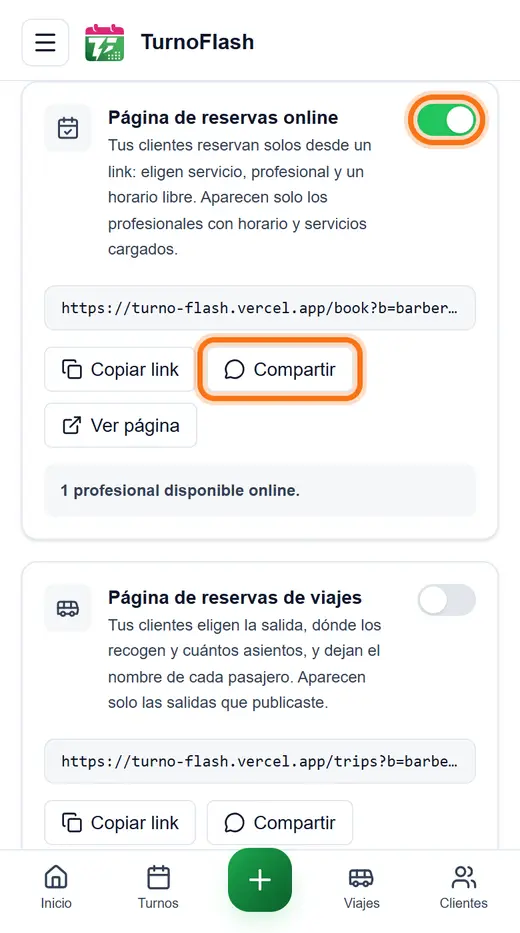
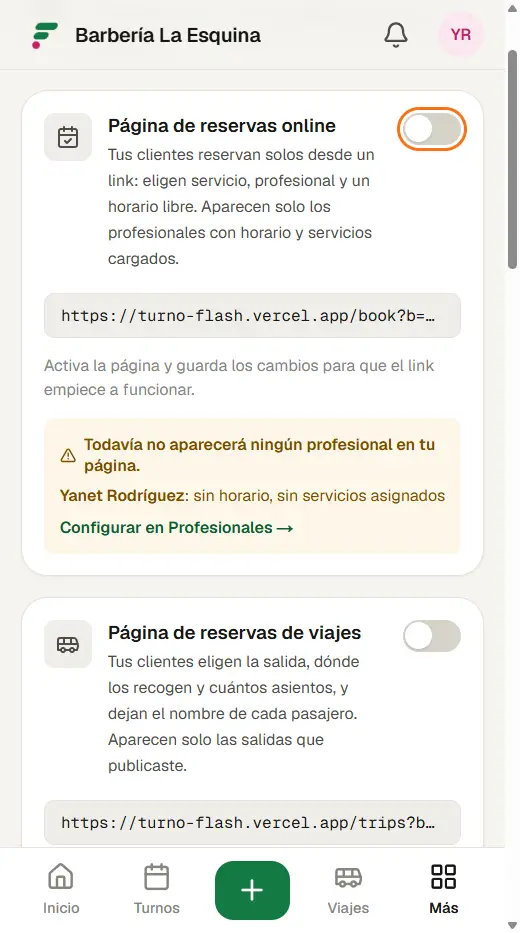
docs(help): first-steps guide photos and manual for the v2 redesign
The eight guide photos are retaken on the new screens, and the manual uses the new status names, actions and navigation. Also: the appointment number leaves the row on phones, buttons never wrap, and trips keep their Requiere aprobacion tag.

diff --git a/docs/user-manual/turno-flash-user-manual.html b/docs/user-manual/turno-flash-user-manual.html
@@ -489,7 +489,7 @@
   <p>Este es el orden que conviene seguir la primera vez. Cada paso depende del anterior: por ejemplo, un profesional sin servicios asignados no aparece en la reserva online.</p>
   <div class="callout tip">
     <span class="tag">Te guiamos</span>
-    <p>En la pantalla de inicio, mientras no termines, verás la tarjeta <span class="ui">Pon en marcha tu negocio</span> con estos pasos, una foto de cada pantalla y un botón que te lleva directo a ella. Cada paso se marca solo cuando lo haces. Si no la quieres ver, toca <span class="ui">Ocultar</span>.</p>
+    <p>En la pantalla de inicio, mientras no termines, verás el recuadro <span class="ui">Pon en marcha tu negocio</span> con estos pasos, una foto de cada pantalla y un botón que te lleva directo a ella. Cada paso se marca solo cuando lo haces. Si no la quieres ver, toca <span class="ui">Ocultar</span>.</p>
   </div>
   <ol class="steps">
     <li><strong>Crea tu cuenta.</strong> En la pantalla de registro completa tu nombre, el nombre del negocio, tu email y una contraseña de al menos 6 caracteres. En <em>¿Qué hace tu negocio?</em> elige <span class="ui">Doy turnos o citas</span> (o <span class="ui">Las dos cosas</span> si también vendes asientos de viajes). En <em>¿Cuántos atienden?</em> elige si trabajas por tu cuenta o con equipo: eso define tu plan. Escribe <strong>tu WhatsApp</strong> (ahí te avisamos antes de que venza tu acceso), el WhatsApp del negocio y tu zona horaria. Empiezas con <strong>15 días de prueba gratis</strong> y ese día no pagas nada.</li>
@@ -505,11 +505,11 @@
   <h2 id="td-inicio">La pantalla de inicio</h2>
   <p>Al entrar ves un saludo con el nombre del negocio y la fecha, y debajo:</p>
   <ul>
-    <li><strong>Hoy:</strong> cuántos turnos hay en el día, separados en Confirmados, Pendientes, En curso y Completados.</li>
-    <li><strong>Atajos</strong> a las secciones que más se usan.</li>
-    <li><strong>Próximos:</strong> los siguientes tres turnos del día que todavía no empezaron. <span class="ui">Ver todos →</span> te lleva a la agenda completa.</li>
+    <li><strong>Hoy:</strong> cuántos turnos hay en el día, con una barra de colores y cuántos van Terminados, En curso, Llegaron, Confirmados y Pendientes.</li>
+    <li><strong>Ahora:</strong> el turno que se está atendiendo o el cliente que ya llegó, con el botón del siguiente paso (<span class="ui">Empezar</span> o <span class="ui">Terminar</span>).</li>
+    <li><strong>Próximos:</strong> los siguientes tres turnos del día que todavía no empezaron. <span class="ui">Ver agenda</span> te lleva a la agenda completa.</li>
   </ul>
-  <p>En la computadora el menú está siempre a la izquierda; ahí también encuentras <span class="ui">Ayuda</span>, que abre esta guía, y puedes cambiar a <span class="ui">Tema oscuro</span> o <span class="ui">Cerrar sesión</span>. En el teléfono tienes una barra inferior con Inicio, Turnos, Clientes y Avisos, y un botón <span class="ui">+</span> en el centro que abre la agenda para crear un turno. Arriba a la derecha, el botón de las flechas (<span class="ui">Actualizar</span>) vuelve a traer los datos sin salir de la pantalla.</p>
+  <p>En la computadora el menú está siempre a la izquierda; ahí también encuentras <span class="ui">Ayuda</span>, que abre esta guía. Abajo, junto a tu nombre, el menú <span class="ui">⋮</span> cambia a <span class="ui">Tema oscuro</span> y tiene <span class="ui">Cerrar sesión</span>. En el teléfono tienes una barra inferior con Inicio, Turnos, Clientes y <span class="ui">Más</span>, y un botón <span class="ui">+</span> en el centro que abre la agenda para crear un turno. <span class="ui">Más</span> abre el resto de las secciones (Servicios, Profesionales, Recordatorios, Reportes, Ajustes, Suscripción…), el tema claro u oscuro, <span class="ui">Actualizar datos</span>, que vuelve a traer la información sin salir de la pantalla, y <span class="ui">Cerrar sesión</span>. Arriba, la campana te lleva a Recordatorios y el círculo con tus iniciales, a tu cuenta.</p>
 
   <h2 id="td-turnos">La agenda de turnos</h2>
   <p>Todo pasa en <span class="path">Turnos</span>. Arriba eliges cómo ver la agenda:</p>
@@ -525,14 +525,14 @@
   </div>
 
   <h3>Buscar y filtrar</h3>
-  <p>En la vista Lista, el buscador encuentra turnos por nombre o teléfono del cliente, por servicio o por profesional. Debajo, las pastillas filtran por estado: Todos, Pendientes, Confirmados, Recordatorio, Cliente OK, Check-in, En curso, Completados, Cancelados y No vino. El buscador y los filtros revisan todos los turnos del período, no solo los que ya están en pantalla. Si hay muchos turnos, al final aparece <span class="ui">Cargar más</span>.</p>
+  <p>En la vista Lista, el buscador encuentra turnos por nombre o teléfono del cliente, por servicio o por profesional. Debajo, las pastillas filtran por estado: Todos, Pendientes, Confirmados, Avisados, Confirmaron, Llegaron, En curso, Terminados, Cancelados y No vino. El buscador y los filtros revisan todos los turnos del período, no solo los que ya están en pantalla. Si hay muchos turnos, al final aparece <span class="ui">Cargar más</span>.</p>
 
   <h3>Crear un turno</h3>
   <ol class="steps">
     <li>Pulsa <span class="ui">Nuevo turno</span> (en el teléfono, el botón redondo <span class="ui">+</span>).</li>
     <li>Elige el <strong>cliente</strong> de la lista. Si es nuevo, pulsa <span class="ui">Nuevo</span>, completa nombre, apellido, teléfono y (si quieres) email, y pulsa <span class="ui">Crear y seleccionar</span>.</li>
     <li>Elige <strong>fecha</strong> y <strong>hora</strong> de inicio.</li>
-    <li>Toca el <strong>servicio</strong>. Cada tarjeta muestra la duración y el precio; la hora de fin se calcula sola.</li>
+    <li>Toca el <strong>servicio</strong>. Cada opción muestra la duración y el precio; la hora de fin se calcula sola.</li>
     <li>Opcional: elige el <strong>profesional</strong> o deja <span class="ui">Cualquiera</span>, y agrega una nota.</li>
     <li>Pulsa <span class="ui">Crear turno</span>.</li>
   </ol>
@@ -546,14 +546,14 @@
   </div>
 
   <h3>Atender un turno: avanzar de estado</h3>
-  <p>Cada turno de la lista tiene un botón con el <strong>siguiente paso</strong> (por ejemplo <span class="ui">Hacer check-in</span> cuando llega el cliente y luego <span class="ui">Completar</span>). Tócalo para avanzar sin abrir el turno. Si tocas el turno, se abre su detalle con fecha, hora, servicio, profesional, duración, precio y notas, más estas acciones:</p>
+  <p>Toca un turno de la lista para abrir su detalle, con fecha, hora, servicio, profesional, duración, precio y notas. Ahí está el botón verde con el <strong>siguiente paso</strong>: <span class="ui">Marcar llegada</span> cuando llega el cliente, <span class="ui">Empezar atención</span> cuando lo pasan a atender y <span class="ui">Terminar</span> al final. Debajo tienes estas acciones:</p>
   <ul>
-    <li>El botón principal con el siguiente paso, y <span class="ui">Completar</span> para cerrarlo de una vez.</li>
+    <li><span class="ui">Terminar</span>, para cerrarlo de una vez sin pasar por los pasos intermedios.</li>
     <li><span class="ui">WhatsApp</span>: abre un chat con el cliente. Toca su teléfono para llamarlo.</li>
-    <li><span class="ui">No vino</span>: marca que el cliente no se presentó.</li>
+    <li><span class="ui">⋮</span> › <span class="ui">No vino</span>, arriba junto a la X: marca que el cliente no se presentó.</li>
     <li><span class="ui">Cancelar</span>: cancela el turno. Con WhatsApp conectado, el cliente recibe <em>Tu turno N° … fue cancelado</em>.</li>
   </ul>
-  <p>No hace falta pasar por todos los pasos: puedes saltar de <span class="chip st-confirmed">Confirmado</span> directamente a <span class="chip st-completed">Completado</span>, por ejemplo. Lo que no se puede es volver atrás, ni cambiar un turno completado, cancelado o marcado como no asistió.</p>
+  <p>No hace falta pasar por todos los pasos: puedes saltar de <span class="chip st-confirmed">Confirmado</span> directamente a <span class="chip st-completed">Terminado</span>, por ejemplo. Lo que no se puede es volver atrás, ni cambiar un turno terminado, cancelado o marcado como No vino.</p>
 
   <h3>Mover un turno</h3>
   <p>Si el cliente necesita otro día u otra hora, abre el turno y toca <span class="ui">Mover</span>. Elige la nueva fecha, la hora y, si quieres, otro profesional, y pulsa <span class="ui">Mover turno</span>. La duración se mantiene. Con WhatsApp conectado, el cliente recibe <em>Tu turno cambió de horario</em> y se le pide que confirme de nuevo; también le llegará el recordatorio de la nueva hora.</p>
@@ -564,37 +564,37 @@
       <thead><tr><th>Estado</th><th>Qué significa</th><th>Botón para avanzar</th></tr></thead>
       <tbody>
         <tr><td><span class="chip st-pending">Pendiente</span></td><td class="wrap">Solicitud que el negocio todavía no aprobó.</td><td><span class="ui">Confirmar</span></td></tr>
-        <tr><td><span class="chip st-confirmed">Confirmado</span></td><td class="wrap">El turno está reservado.</td><td><span class="ui">Hacer check-in</span></td></tr>
-        <tr><td><span class="chip st-reminded">Recordatorio enviado</span></td><td class="wrap">Se le mandó el recordatorio al cliente.</td><td><span class="ui">Hacer check-in</span></td></tr>
-        <tr><td><span class="chip st-client_confirmed">Cliente confirmó</span></td><td class="wrap">El cliente respondió OK al WhatsApp.</td><td><span class="ui">Hacer check-in</span></td></tr>
-        <tr><td><span class="chip st-checked_in">Check-in</span></td><td class="wrap">El cliente llegó al local.</td><td><span class="ui">Completar</span></td></tr>
-        <tr><td><span class="chip st-in_progress">En curso</span></td><td class="wrap">Lo están atendiendo.</td><td><span class="ui">Completar</span></td></tr>
-        <tr><td><span class="chip st-completed">Completado</span></td><td class="wrap">Terminado. Cuenta como ingreso en los reportes.</td><td>—</td></tr>
+        <tr><td><span class="chip st-confirmed">Confirmado</span></td><td class="wrap">El turno está reservado.</td><td><span class="ui">Marcar llegada</span></td></tr>
+        <tr><td><span class="chip st-reminded">Avisado</span></td><td class="wrap">Se le mandó el recordatorio al cliente.</td><td><span class="ui">Marcar llegada</span></td></tr>
+        <tr><td><span class="chip st-client_confirmed">Confirmó</span></td><td class="wrap">El cliente respondió OK al WhatsApp.</td><td><span class="ui">Marcar llegada</span></td></tr>
+        <tr><td><span class="chip st-checked_in">Llegó</span></td><td class="wrap">El cliente llegó al local.</td><td><span class="ui">Empezar atención</span></td></tr>
+        <tr><td><span class="chip st-in_progress">En curso</span></td><td class="wrap">Lo están atendiendo.</td><td><span class="ui">Terminar</span></td></tr>
+        <tr><td><span class="chip st-completed">Terminado</span></td><td class="wrap">Terminado. Cuenta como ingreso en los reportes.</td><td>—</td></tr>
         <tr><td><span class="chip st-cancelled">Cancelado</span></td><td class="wrap">Lo canceló el negocio o el cliente.</td><td>—</td></tr>
-        <tr><td><span class="chip st-no_show">No asistió</span></td><td class="wrap">El cliente no se presentó.</td><td>—</td></tr>
+        <tr><td><span class="chip st-no_show">No vino</span></td><td class="wrap">El cliente no se presentó.</td><td>—</td></tr>
       </tbody>
     </table>
   </div>
   <div class="callout warn">
     <span class="tag">Ojo</span>
-    <p>Un turno <span class="chip st-in_progress">En curso</span> ya no se puede marcar como <span class="ui">No vino</span>: solo completarlo o cancelarlo.</p>
+    <p>Un turno <span class="chip st-in_progress">En curso</span> ya no se puede marcar como <span class="ui">No vino</span>: solo terminarlo o cancelarlo.</p>
   </div>
 
   <h3>Exportar la agenda</h3>
   <p>Desde la computadora, el botón <span class="ui">CSV</span> descarga los turnos del rango que estás viendo, con fecha, hora, cliente, teléfono, servicio, profesional, estado, precio, si se pagó, origen y número. Se abre con Excel o Google Sheets.</p>
 
   <h2 id="td-clientes">Clientes</h2>
-  <p>En <span class="path">Clientes</span> tienes la base de clientes activos, con buscador por nombre, teléfono o email. Cada tarjeta muestra el teléfono, el email, las notas y una marca <strong>WA</strong> si tiene WhatsApp cargado.</p>
+  <p>En <span class="path">Clientes</span> tienes la base de clientes activos, con buscador por nombre, teléfono o email. Cada fila muestra el nombre y el teléfono; al tocarla se abre la ficha para ver o corregir el resto.</p>
   <ul>
-    <li><span class="ui">Nuevo cliente</span>: nombre y teléfono son obligatorios; apellido, WhatsApp, email y notas (preferencias, alergias…) son opcionales.</li>
-    <li>Menú <span class="ui">⋮</span> › <span class="ui">Editar</span> para corregir datos.</li>
+    <li><span class="ui">Nuevo</span>: nombre y teléfono son obligatorios; apellido, WhatsApp, email y notas (preferencias, alergias…) son opcionales.</li>
+    <li>Toca la fila, o su menú <span class="ui">⋮</span> › <span class="ui">Editar</span>, para corregir datos.</li>
     <li>Menú <span class="ui">⋮</span> › <span class="ui">Desactivar</span> para sacarlo de la lista sin borrar su historial. Lo encuentras en <span class="ui">Inactivos</span>, donde <span class="ui">⋮</span> › <span class="ui">Reactivar</span> lo devuelve a la lista.</li>
-    <li><span class="ui">CSV</span> descarga todos los clientes activos con sus contactos, cantidad de turnos, faltas y última visita.</li>
+    <li>Arriba, el menú <span class="ui">⋮</span> › <span class="ui">Exportar CSV</span> descarga todos los clientes activos con sus contactos, cantidad de turnos, faltas y última visita.</li>
   </ul>
   <p>Los clientes que reservan por la página online se crean solos. Si alguien vuelve a reservar con el mismo teléfono, se reutiliza su ficha.</p>
 
   <h3>Recuperar clientes</h3>
-  <p>El botón <span class="ui">Recuperar clientes</span> lista a quienes no vienen hace tiempo y les envía por WhatsApp una invitación a volver.</p>
+  <p>En el menú <span class="ui">⋮</span> de arriba, <span class="ui">Recuperar clientes</span> lista a quienes no vienen hace tiempo y les envía por WhatsApp una invitación a volver.</p>
   <ol class="steps">
     <li>Elige cuánto tiempo sin venir: <span class="ui">Sin venir +30 días</span>, <span class="ui">+60 días</span> o <span class="ui">+90 días</span>.</li>
     <li>Marca a los clientes uno por uno o pulsa <span class="ui">Seleccionar todos</span>.</li>
@@ -606,7 +606,7 @@
   </div>
 
   <h2 id="td-servicios">Servicios</h2>
-  <p>En <span class="path">Servicios</span> armas el catálogo de lo que ofreces. Pulsa <span class="ui">Nuevo servicio</span> o <span class="ui">Editar</span> en una tarjeta.</p>
+  <p>En <span class="path">Servicios</span> armas el catálogo de lo que ofreces. Pulsa <span class="ui">Nuevo</span>, o toca un servicio de la lista para editarlo.</p>
   <div class="table-wrap">
     <table>
       <thead><tr><th>Campo</th><th>Para qué sirve</th></tr></thead>
@@ -621,10 +621,10 @@
       </tbody>
     </table>
   </div>
-  <p>El interruptor <span class="ui">Activo</span> / <span class="ui">Pausado</span> de cada tarjeta deja de ofrecer un servicio sin borrarlo. Puedes volver a activarlo cuando quieras.</p>
+  <p>El interruptor a la derecha de cada servicio lo pausa: deja de ofrecerse sin borrarlo, y queda marcado como <span class="ui">Pausado</span>. Puedes volver a activarlo cuando quieras.</p>
 
   <h2 id="td-profesionales">Profesionales</h2>
-  <p>En <span class="path">Profesionales</span> cargas a las personas que atienden. Pulsa <span class="ui">Nuevo profesional</span> y completa nombre y apellido; el resto es opcional: apodo (es el nombre que se muestra), teléfono, email, especialidades separadas por coma, una bio y un color para la agenda. Si esa persona entra a la app con su propia cuenta, elígela en <strong>Cuenta de la app</strong>: así verá la pastilla <span class="ui">Mis turnos</span> en su agenda. Además hay tres casillas:</p>
+  <p>En <span class="path">Profesionales</span> cargas a las personas que atienden. Pulsa <span class="ui">Nuevo</span> y completa nombre y apellido; el resto es opcional: apodo (es el nombre que se muestra), teléfono, email, especialidades separadas por coma, una bio y un color para la agenda. Si esa persona entra a la app con su propia cuenta, elígela en <strong>Cuenta de la app</strong>: así verá la pastilla <span class="ui">Mis turnos</span> en su agenda. Además hay tres casillas:</p>
   <ul>
     <li><strong>Profesional activo:</strong> si está desmarcada, la persona queda pausada.</li>
     <li><strong>Se pueden reservar turnos con esta persona:</strong> desmárcala para quien no atiende clientes (por ejemplo, recepción).</li>
@@ -632,7 +632,7 @@
   </ul>
 
   <h3>Horario y servicios de cada profesional</h3>
-  <p>Desde el menú <span class="ui">⋮</span> › <span class="ui">Horario y servicios</span> de cada tarjeta configuras tres cosas:</p>
+  <p>Desde el menú <span class="ui">⋮</span> › <span class="ui">Horario y servicios</span> de cada profesional configuras tres cosas:</p>
   <ul>
     <li><strong>Servicios que realiza:</strong> toca los que hace esa persona. Solo esos se le ofrecen online.</li>
     <li><strong>Horario semanal:</strong> para cada día marca <em>Trabaja</em> y define desde y hasta. Si corta al mediodía, usa <span class="ui">Agregar tramo</span> para cargar un segundo horario el mismo día.</li>
@@ -725,14 +725,14 @@ Escribe <b>OK</b> para confirmar o <b>CANCELAR</b> si no puedes.</div>
 
   <h3>Cuando el cliente responde</h3>
   <ul>
-    <li><strong>OK, SI, CONFIRMO o un 👍:</strong> el turno pasa a <span class="chip st-client_confirmed">Cliente confirmó</span> y el negocio recibe <em>Cliente confirmó asistencia</em>. En un turno pendiente solo queda anotado que vendrá: aprobarlo sigue siendo decisión tuya.</li>
+    <li><strong>OK, SI, CONFIRMO o un 👍:</strong> el turno pasa a <span class="chip st-client_confirmed">Confirmó</span> y el negocio recibe <em>Cliente confirmó asistencia</em>. En un turno pendiente solo queda anotado que vendrá: aprobarlo sigue siendo decisión tuya.</li>
     <li><strong>CANCELAR o NO:</strong> el turno se cancela solo, el cliente recibe la confirmación y el negocio, un aviso de <em>Turno cancelado por el cliente</em>.</li>
     <li><strong>Un número del 1 al 5</strong> después de un pedido de valoración: se guarda como rating y alimenta tus reportes.</li>
     <li><strong>Cualquier otra cosa, o una nota de voz:</strong> el cliente recibe un mensaje que le vuelve a explicar cómo confirmar o cancelar.</li>
   </ul>
 
   <h3>Enviar recordatorios a mano</h3>
-  <p>En <span class="path">Recordatorios</span> eliges el día con las pastillas <span class="ui">Hoy</span>, <span class="ui">Mañana</span>, <span class="ui">+2 días</span> y <span class="ui">+3 días</span>. Arriba ves tres números: <strong>Por enviar</strong> (turnos pendientes o confirmados), <strong>Enviados</strong> y <strong>Tasa de respuesta</strong> (qué parte de los avisados confirmó). Envía uno por uno con <span class="ui">Enviar</span> o a todos juntos con <span class="ui">Enviar a N clientes</span>; los mensajes salen con un segundo de diferencia. Cada turno avisado pasa a <span class="chip st-reminded">Recordatorio enviado</span>.</p>
+  <p>En <span class="path">Recordatorios</span> eliges el día con las pastillas <span class="ui">Hoy</span>, <span class="ui">Mañana</span>, <span class="ui">+2 días</span> y <span class="ui">+3 días</span>. Arriba ves tres números: <strong>Por enviar</strong> (turnos pendientes o confirmados), <strong>Enviados</strong> y <strong>Respondieron</strong> (qué parte de los avisados confirmó). Envía uno por uno con <span class="ui">Enviar</span> o a todos juntos con <span class="ui">Enviar a N clientes</span>; los mensajes salen con un segundo de diferencia. Cada turno avisado pasa a <span class="chip st-reminded">Avisado</span>.</p>
 
   <h3>Automatizaciones que puedes encender</h3>
   <ul>
@@ -744,12 +744,12 @@ Escribe <b>OK</b> para confirmar o <b>CANCELAR</b> si no puedes.</div>
   <h2 id="td-reportes">Reportes</h2>
   <p><span class="path">Reportes</span> resume cómo va el negocio en el período que elijas: <span class="ui">7 días</span>, <span class="ui">30 días</span>, <span class="ui">90 días</span> o <span class="ui">Este mes</span>.</p>
   <ul>
-    <li><strong>Indicadores:</strong> Ingresos (comparados con el período anterior), Turnos, Completados, Cancelados + No-show, Clientes nuevos y Rating promedio.</li>
+    <li><strong>Indicadores:</strong> Ingresos (comparados con el período anterior), Turnos, Terminados, Cancelados + No-show, Clientes nuevos y Rating promedio.</li>
     <li><strong>Gráficos y tablas:</strong> Ingresos por día, Turnos por estado, Top servicios por ingresos, Rendimiento del equipo (turnos, ingresos y rating por profesional), Horas pico y Origen de las reservas.</li>
   </ul>
   <div class="callout note">
     <span class="tag">Cómo se cuentan los ingresos</span>
-    <p>Solo suman los turnos <span class="chip st-completed">Completado</span>, con el precio del servicio. Un turno que quedó en Confirmado aunque el cliente vino no aparece en los ingresos: acostúmbrate a completarlos.</p>
+    <p>Solo suman los turnos <span class="chip st-completed">Terminado</span>, con el precio del servicio. Un turno que quedó en Confirmado aunque el cliente vino no aparece en los ingresos: acostúmbrate a terminarlos.</p>
   </div>
 
   <h2 id="td-equipo">Tu equipo</h2>
@@ -859,7 +859,7 @@ Escribe <b>OK</b> para confirmar o <b>CANCELAR</b> si no puedes.</div>
   <p>Si ves el aviso <strong>Sin organización asignada</strong>, pídele al dueño que revise la invitación. Si ves <strong>Tu acceso fue desactivado</strong>, el dueño te quitó el acceso: habla con quien administra el negocio.</p>
 
   <h2 id="tp-inicio">La pantalla de inicio</h2>
-  <p>Arriba ves cuántos turnos hay <strong>hoy</strong>, separados en Confirmados, Pendientes, En curso y Completados. Más abajo están los atajos y los <strong>próximos</strong> tres turnos del día. En el teléfono, la barra inferior te lleva a Inicio, Turnos, Clientes y Avisos, y el botón <span class="ui">+</span> del centro abre la agenda.</p>
+  <p>Arriba ves cuántos turnos hay <strong>hoy</strong> y cuántos van Terminados, En curso, Llegaron, Confirmados y Pendientes. Más abajo está <strong>Ahora</strong> (el turno que se está atendiendo) y los <strong>próximos</strong> tres turnos del día. En el teléfono, la barra inferior te lleva a Inicio, Turnos, Clientes y <span class="ui">Más</span>, donde está el resto; el botón <span class="ui">+</span> del centro abre la agenda.</p>
 
   <h2 id="tp-agenda">La agenda</h2>
   <p>En <span class="path">Turnos</span> elige la vista:</p>
@@ -886,21 +886,21 @@ Escribe <b>OK</b> para confirmar o <b>CANCELAR</b> si no puedes.</div>
   </div>
 
   <h2 id="tp-atender">Recibir y atender a un cliente</h2>
-  <p>Cada turno muestra un botón con el siguiente paso. El recorrido completo es este, aunque puedes saltar pasos (por ejemplo, completar directamente un turno confirmado):</p>
+  <p>Al tocar un turno se abre su detalle, con un botón verde para el siguiente paso. El recorrido completo es este, aunque puedes saltar pasos (por ejemplo, terminar directamente un turno confirmado):</p>
   <div class="flow" aria-label="Recorrido de un turno">
     <span class="chip st-pending">Pendiente</span><span class="arrow">→</span>
     <span class="chip st-confirmed">Confirmado</span><span class="arrow">→</span>
-    <span class="chip st-reminded">Recordatorio enviado</span><span class="arrow">→</span>
-    <span class="chip st-client_confirmed">Cliente confirmó</span><span class="arrow">→</span>
-    <span class="chip st-checked_in">Check-in</span><span class="arrow">→</span>
+    <span class="chip st-reminded">Avisado</span><span class="arrow">→</span>
+    <span class="chip st-client_confirmed">Confirmó</span><span class="arrow">→</span>
+    <span class="chip st-checked_in">Llegó</span><span class="arrow">→</span>
     <span class="chip st-in_progress">En curso</span><span class="arrow">→</span>
-    <span class="chip st-completed">Completado</span>
+    <span class="chip st-completed">Terminado</span>
   </div>
   <ol class="steps">
-    <li>Cuando llega el cliente, pulsa <span class="ui">Hacer check-in</span>.</li>
-    <li>Al terminar, <span class="ui">Completar</span>. Esto es importante: <strong>solo los turnos completados cuentan como ingreso</strong> en los reportes del negocio, y es el momento en que al cliente se le pide una valoración.</li>
+    <li>Cuando llega el cliente, pulsa <span class="ui">Marcar llegada</span>. Cuando lo pasan a atender, <span class="ui">Empezar atención</span>.</li>
+    <li>Al terminar, <span class="ui">Terminar</span>. Esto es importante: <strong>solo los turnos terminados cuentan como ingreso</strong> en los reportes del negocio, y es el momento en que al cliente se le pide una valoración.</li>
   </ol>
-  <p>Tocando el turno abres su detalle, con los botones <span class="ui">WhatsApp</span> (abre un chat con el cliente), <span class="ui">No vino</span> y <span class="ui">Cancelar</span>. Un turno ya <span class="chip st-in_progress">En curso</span> no se puede marcar como No vino, y los turnos completados, cancelados o no asistidos ya no cambian.</p>
+  <p>Tocando el turno abres su detalle, con los botones <span class="ui">WhatsApp</span> (abre un chat con el cliente), <span class="ui">Mover</span> y <span class="ui">Cancelar</span>; <span class="ui">No vino</span> está en el menú <span class="ui">⋮</span> de arriba. Un turno ya <span class="chip st-in_progress">En curso</span> no se puede marcar como No vino, y los turnos terminados, cancelados o marcados como No vino ya no cambian.</p>
 
   <h2 id="tp-recordatorios">Recordatorios</h2>
   <p>La app envía sola un recordatorio <strong>24 horas</strong> y otro <strong>1 hora</strong> antes de cada turno. Además, en <span class="path">Recordatorios</span> puedes avisar a mano:</p>
@@ -920,13 +920,13 @@ Te recordamos tu turno en <b>Estudio Nova</b> mañana a las 10:30.
 
 Escribe <b>OK</b> para confirmar o <b>CANCELAR</b> si no puedes.</div>
   </div>
-  <p>Si responde <strong>OK</strong>, el turno pasa solo a <span class="chip st-client_confirmed">Cliente confirmó</span>. Si responde <strong>CANCELAR</strong>, se cancela solo y el hueco queda libre. La <strong>Tasa de respuesta</strong> te dice qué parte de los avisados ya confirmó.</p>
+  <p>Si responde <strong>OK</strong>, el turno pasa solo a <span class="chip st-client_confirmed">Confirmó</span>. Si responde <strong>CANCELAR</strong>, se cancela solo y el hueco queda libre. El número <strong>Respondieron</strong> te dice qué parte de los avisados ya confirmó.</p>
 
   <h2 id="tp-clientes">Clientes</h2>
   <ul>
     <li>Busca por nombre, teléfono o email.</li>
-    <li><span class="ui">Nuevo cliente</span>: nombre y teléfono son obligatorios; el apellido es opcional. Anota en <em>Notas</em> lo que conviene recordar (preferencias, alergias).</li>
-    <li>Menú <span class="ui">⋮</span> › <span class="ui">Editar</span> para corregir datos, o <span class="ui">Desactivar</span> para sacarlo de la lista. Un cliente desactivado ya no aparece, así que úsalo solo cuando corresponda.</li>
+    <li><span class="ui">Nuevo</span>: nombre y teléfono son obligatorios; el apellido es opcional. Anota en <em>Notas</em> lo que conviene recordar (preferencias, alergias).</li>
+    <li>Toca la fila para corregir datos, o usa su menú <span class="ui">⋮</span> › <span class="ui">Desactivar</span> para sacarlo de la lista. Un cliente desactivado ya no aparece, así que úsalo solo cuando corresponda.</li>
   </ul>
 
   <h2 id="tp-cuenta">Tu cuenta y la licencia</h2>
@@ -950,7 +950,7 @@ Escribe <b>OK</b> para confirmar o <b>CANCELAR</b> si no puedes.</div>
   <h2 id="vd-arranque">Puesta en marcha</h2>
   <div class="callout tip">
     <span class="tag">Te guiamos</span>
-    <p>En la pantalla de inicio, mientras no termines, verás la tarjeta <span class="ui">Pon en marcha tu negocio</span> con estos pasos, una foto de cada pantalla y un botón que te lleva directo a ella. Cada paso se marca solo cuando lo haces. Si no la quieres ver, toca <span class="ui">Ocultar</span>.</p>
+    <p>En la pantalla de inicio, mientras no termines, verás el recuadro <span class="ui">Pon en marcha tu negocio</span> con estos pasos, una foto de cada pantalla y un botón que te lleva directo a ella. Cada paso se marca solo cuando lo haces. Si no la quieres ver, toca <span class="ui">Ocultar</span>.</p>
   </div>
   <ol class="steps">
     <li><strong>Crea tu cuenta.</strong> En <em>¿Qué hace tu negocio?</em> elige <span class="ui">Vendo asientos de viajes</span> (o <span class="ui">Las dos cosas</span>). Escribe tu WhatsApp (ahí te avisamos antes de que venza tu acceso) y el WhatsApp del negocio, que es donde te llegarán los avisos de reservas nuevas. Empiezas con 15 días de prueba gratis en el plan Pasajes.</li>
@@ -1029,7 +1029,7 @@ Escribe <b>OK</b> para confirmar o <b>CANCELAR</b> si no puedes.</div>
   <p>Sirve para casos como <em>se reserva desde el jueves anterior a las 4 de la tarde</em>. Mientras está cerrada, la salida sigue apareciendo en tu página con el aviso <em>Las reservas abren el …</em>, y al cerrarse muestra <em>Las reservas de esta salida ya cerraron</em>. La ventana solo frena a la página web: tú puedes cargar reservas a mano en cualquier momento.</p>
 
   <h2 id="vd-lista">Gestionar tus salidas</h2>
-  <p>La lista muestra las salidas próximas, con buscador. Cada tarjeta indica fecha, horario, punto de encuentro, precio, anticipo y una barra de ocupación (<em>12 de 20 asientos · 8 libres</em>), además de marcas como <span class="chip st-checked_in">Requiere aprobación</span>, <span class="chip st-pending">Sin publicar</span>, <span class="chip st-checked_in">Completo</span> o <span class="chip st-cancelled">Cancelada</span>. El menú <span class="ui">⋮</span> tiene:</p>
+  <p>La lista muestra las salidas próximas, con buscador. Cada fila indica la hora y la fecha, el destino, el precio y una barra de ocupación (<em>12/20 asientos · 8 libres</em>), además de marcas como <span class="chip st-checked_in">2 por aprobar</span>, <span class="chip st-pending">Requiere aprobación</span>, <span class="chip st-pending">Sin publicar</span>, el anticipo o <span class="chip st-cancelled">Cancelada</span>. Al tocarla entras a sus pasajeros. El menú <span class="ui">⋮</span> tiene:</p>
   <div class="table-wrap">
     <table>
       <thead><tr><th>Acción</th><th>Qué hace</th></tr></thead>
@@ -1191,7 +1191,7 @@ Viajes Ruta Central</div>
     <li class="app-only"><strong>Suscripción:</strong> 15 días de prueba gratis. Desde 2 días antes de vencer te avisamos por WhatsApp; al vencer tienes 5 días de margen y después aparece Acceso bloqueado, sin perder datos. Tu plan y tus fechas están en <span class="path">Suscripción</span>.</li>
     <li><strong>Mi cuenta:</strong> tu correo, tu nombre y tu rol, y la opción de eliminar la cuenta escribiendo <span class="ui">ELIMINAR</span>.</li>
   </ul>
-  <p>Si tu negocio solo vende viajes, la app no te muestra las secciones de turnos: en el menú verás Viajes, Clientes, Ajustes, Suscripción, Invitar, Mi cuenta y Ayuda, y en el teléfono la barra inferior tiene Inicio, Viajes, Clientes y Cuenta.</p>
+  <p>Si tu negocio solo vende viajes, la app no te muestra las secciones de turnos: en el menú verás Viajes, Clientes, Ajustes, Suscripción, Invitar, Mi cuenta y Ayuda, y en el teléfono la barra inferior tiene Inicio, Viajes, Clientes y Más.</p>
 
   <h2 id="vd-limites">Lo que todavía no se puede hacer</h2>
   <ul>
@@ -1244,7 +1244,7 @@ Viajes Ruta Central</div>
   </div>
 
   <h2 id="vp-salidas">Consultar las salidas</h2>
-  <p>En <span class="path">Viajes</span> (en el teléfono, en la barra inferior, junto a Inicio, Clientes y Cuenta) ves las salidas próximas, con buscador. Cada tarjeta muestra:</p>
+  <p>En <span class="path">Viajes</span> (en el teléfono, en la barra inferior, junto a Inicio, Clientes y Más) ves las salidas próximas, con buscador. Cada fila muestra:</p>
   <ul>
     <li>Título, fecha, hora de salida y regreso, punto de encuentro y precio.</li>
     <li>Cuántos asientos están ocupados y cuántos quedan, con una barra de ocupación.</li>
@@ -1279,7 +1279,7 @@ Viajes Ruta Central</div>
   <p>Las reservas canceladas no aparecen en la hoja: todo lo que figura ahí viaja.</p>
 
   <h2 id="vp-clientes">Clientes</h2>
-  <p>En <span class="path">Clientes</span> encuentras a cada persona que reservó, buscando por nombre, teléfono o email. Puedes crear clientes nuevos y corregir sus datos desde el menú <span class="ui">⋮</span> › <span class="ui">Editar</span>.</p>
+  <p>En <span class="path">Clientes</span> encuentras a cada persona que reservó, buscando por nombre, teléfono o email. Puedes crear clientes nuevos y corregir sus datos tocando su fila.</p>
 
   <h2 id="vp-cuenta">Tu cuenta</h2>
   <ul>

diff --git a/components/trips/TripCard.tsx b/components/trips/TripCard.tsx
@@ -132,6 +132,7 @@ export function TripCard({
         />
       </div>
       {(trip.pending_approval > 0 ||
+        trip.requires_approval ||
         !trip.is_published ||
         isCancelled ||
         trip.deposit_per_seat > 0) && (
@@ -139,6 +140,9 @@ export function TripCard({
           {isCancelled && <Badge variant="danger">Cancelada</Badge>}
           {trip.pending_approval > 0 && !isCancelled && (
             <Badge variant="warning">{trip.pending_approval} por aprobar</Badge>
+          )}
+          {trip.requires_approval && trip.pending_approval === 0 && (
+            <Badge variant="muted">Requiere aprobación</Badge>
           )}
           {!trip.is_published && !isCancelled && (
             <Badge variant="muted">Sin publicar</Badge>

diff --git a/components/ui/button.tsx b/components/ui/button.tsx
@@ -56,7 +56,7 @@ export const Button = forwardRef<HTMLButtonElement, ButtonProps>(
     ref
   ) => {
     const base =
-      "inline-flex items-center justify-center gap-2 font-semibold transition-[background-color,filter] active:scale-[0.98] disabled:cursor-not-allowed disabled:opacity-50 focus-visible:outline-none focus-visible:ring-4 focus-visible:ring-primary-100 dark:focus-visible:ring-primary-900";
+      "inline-flex items-center justify-center gap-2 whitespace-nowrap font-semibold transition-[background-color,filter] active:scale-[0.98] disabled:cursor-not-allowed disabled:opacity-50 focus-visible:outline-none focus-visible:ring-4 focus-visible:ring-primary-100 dark:focus-visible:ring-primary-900";
 
     return (
       <button

diff --git a/components/onboarding/SetupGuide.tsx b/components/onboarding/SetupGuide.tsx
@@ -40,7 +40,7 @@ const STEPS: readonly GuideStep[] = [
     title: "Agrega a quien atiende",
     text: [
       "Escribe el nombre y el apellido de cada persona que atiende clientes. Si trabajas solo, anótate tú. Abajo, toca «Crear profesional».",
-      "Después, en los tres puntitos de su tarjeta, toca «Horario y servicios» para decir qué días trabaja.",
+      "Después, en los tres puntitos de su fila, toca «Horario y servicios» para decir qué días trabaja.",
     ],
     action: "Agregar un profesional",
     href: "/dashboard/staff?create=1",

diff --git a/components/appointments/ApptRow.tsx b/components/appointments/ApptRow.tsx
@@ -45,7 +45,8 @@ export function ApptRow({ appointment: a, onOpen, serviceColor }: ApptRowProps) 
       // Same number the WhatsApp messages show, to match them at a glance
       titleAside={
         a.appointment_number && (
-          <span className="font-mono text-caption tabular-nums text-foreground-subtle">
+          // On a phone the name needs the room
+          <span className="font-mono text-caption tabular-nums text-foreground-subtle max-sm:hidden">
             N° {a.appointment_number}
           </span>
         )
